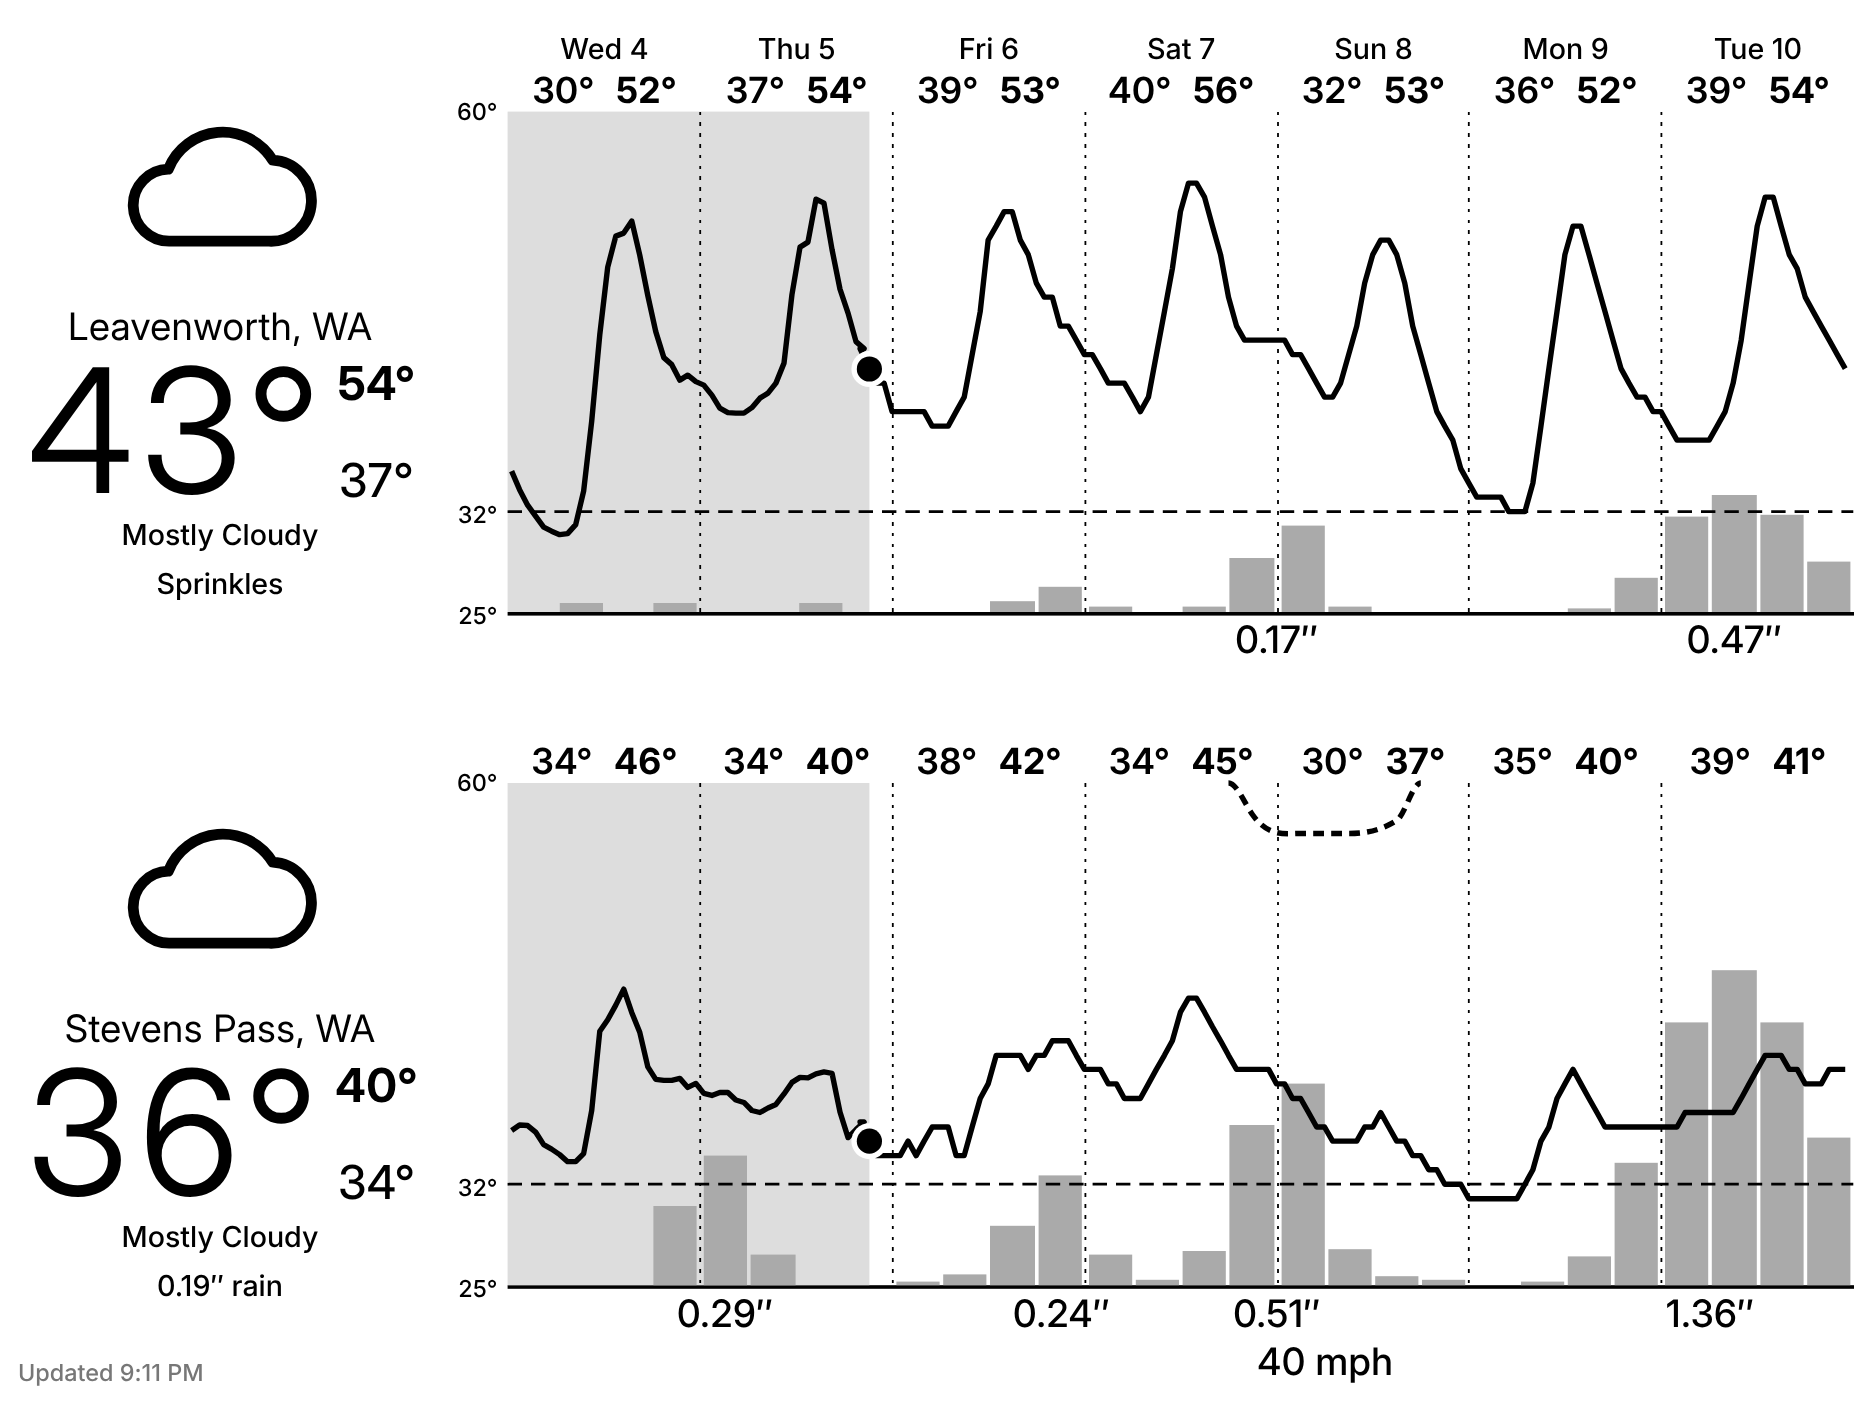
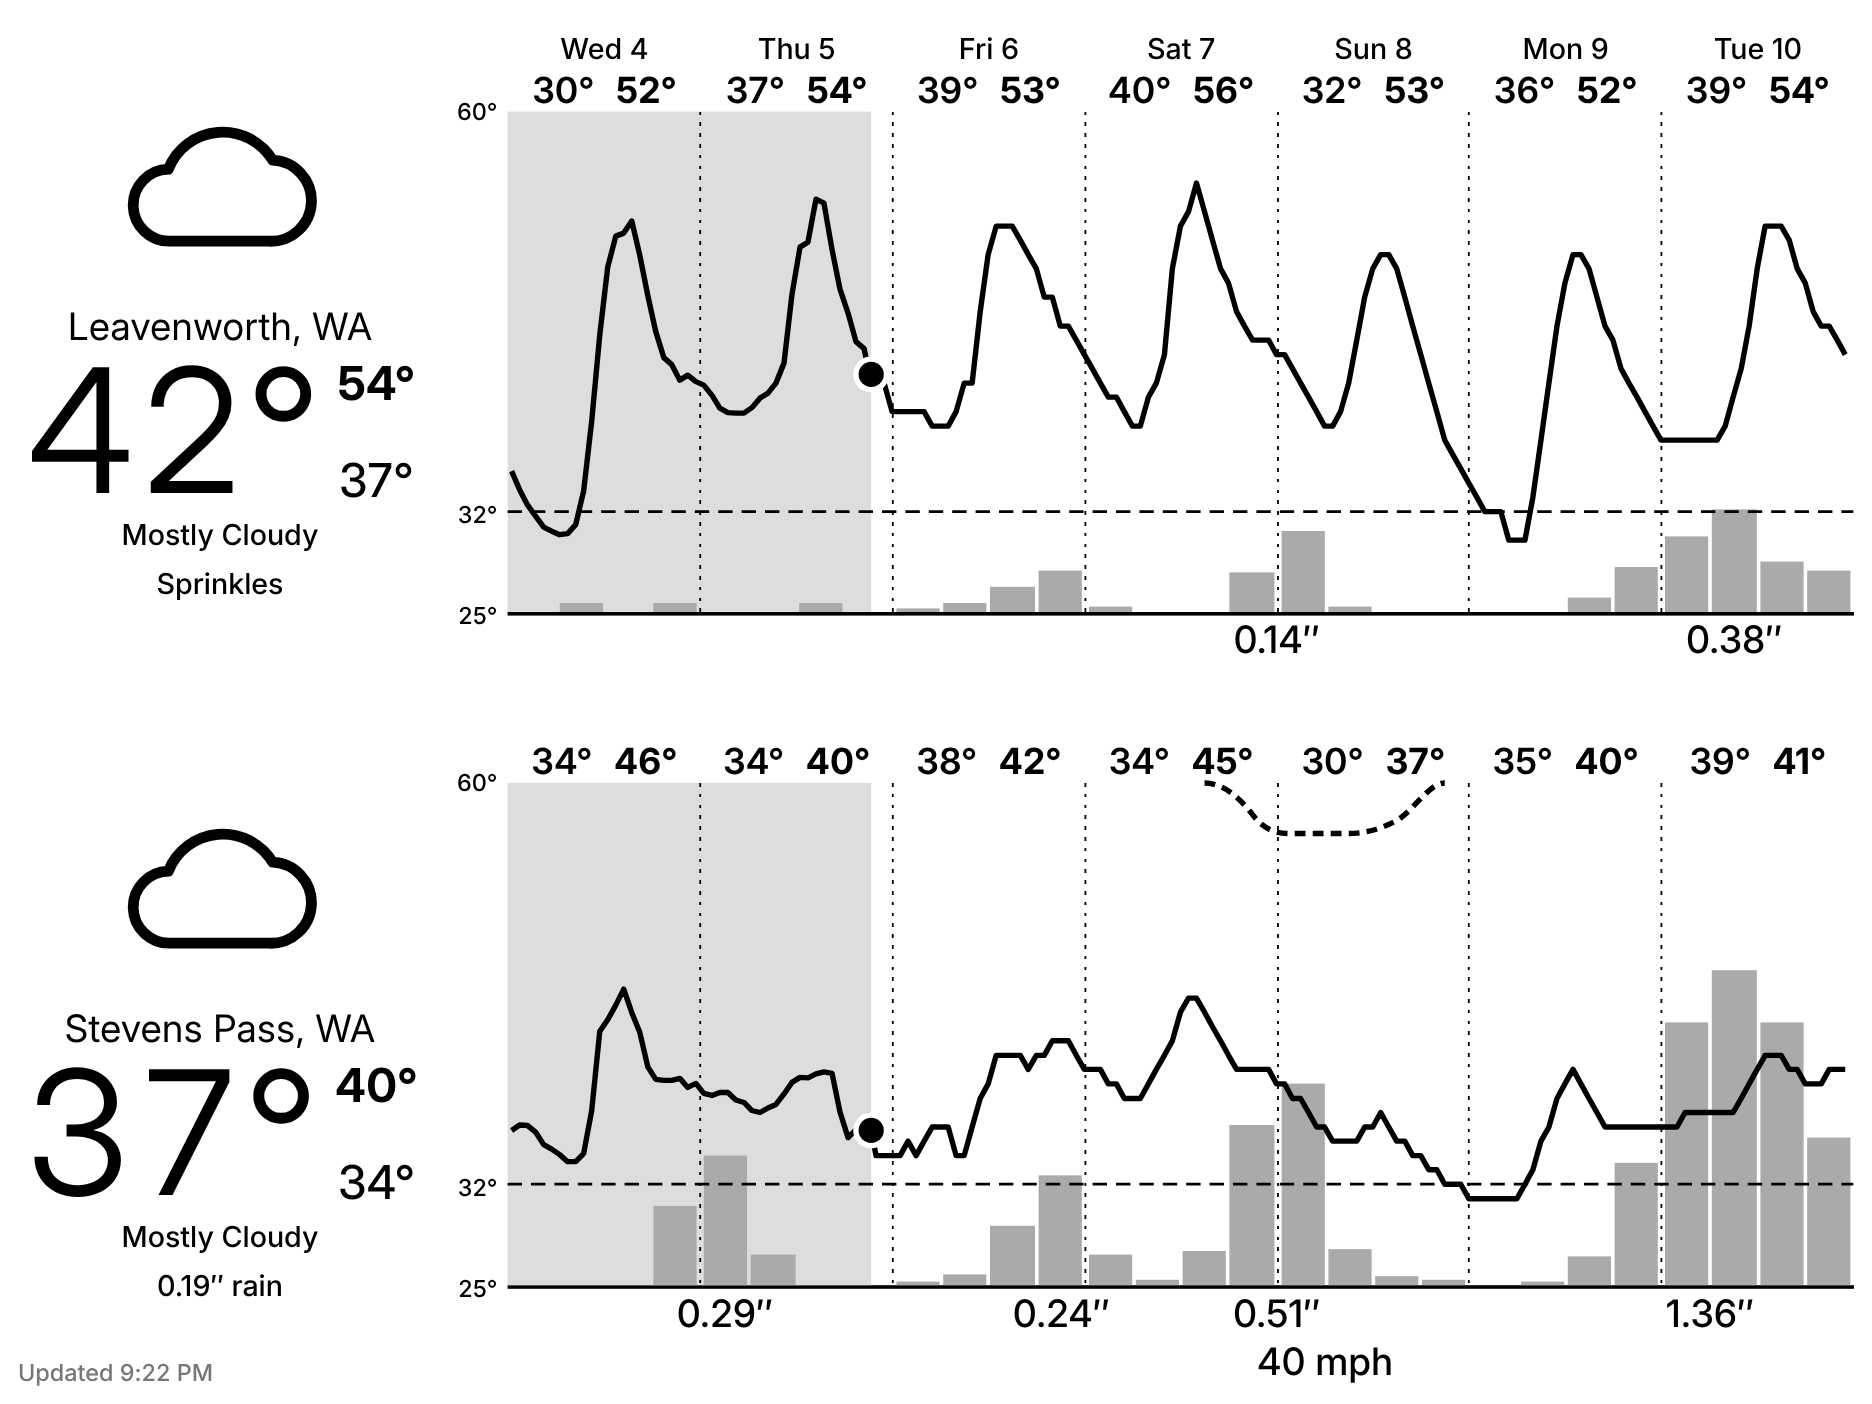
Ease the wind curve in and out over a whole block
Claude-Session: https://claude.ai/code/session_018zBtTfGxqR6ysBZYHYeVbJ

diff --git a/server/forecast/wind.go b/server/forecast/wind.go
@@ -47,19 +47,21 @@ func (c *Chart) fillWind(grid *GridData, days []Day, start, end, now time.Time, 
 		}
 	}
 
-	// Each windy spell: a curve from zero at the spell's start, through each block's gust at the
-	// block's middle, back to zero at its end; and one label with its peak, centered under it.
+	// Each windy spell: a curve that eases in from zero a whole block before the spell's first
+	// block (at the middle of the calm block before it), runs through each block's gust at the
+	// block's middle, and eases back out to zero a block after its last; and one label with its
+	// peak, centered under it. The ends clamp to the chart's edges.
 	c.Gusts = []Storm{}
 	n := float64(len(gusts))
 	for _, r := range runs(len(gusts), func(k int) bool { return gusts[k] >= windyGustMph }) {
-		xs, ys := []float64{float64(r[0]) / n * 1000}, []float64{0}
+		xs, ys := []float64{math.Max(0, (float64(r[0])-0.5)/n*1000)}, []float64{0}
 		peak := 0.0
 		for k := r[0]; k <= r[1]; k++ {
 			xs = append(xs, (float64(k)+0.5)/n*1000)
 			ys = append(ys, math.Min(100, 100*gusts[k]/fullGustMph))
 			peak = math.Max(peak, gusts[k])
 		}
-		xs, ys = append(xs, float64(r[1]+1)/n*1000), append(ys, 0)
+		xs, ys = append(xs, math.Min(1000, (float64(r[1])+1.5)/n*1000)), append(ys, 0)
 		c.WindLine += smoothPath(xs, ys)
 
 		label := fmt.Sprintf("%.0f mph", peak)

diff --git a/server/forecast/glance_test.go b/server/forecast/glance_test.go
@@ -770,9 +770,10 @@ func TestWind(t *testing.T) {
 	days := make([]Day, 2)
 	c := buildChart(&grid, days, loc, now, "us", "auto", nil, seen, 0)
 	// Block 0 (midnight-6): station peaks 20, 26, 10 -> median 20, calm. Block 1: 31, 45 -> 38.
-	// Two windy spells (blocks 1 and 5), each a curve from zero, through the gust, back to zero.
-	if c.WindLine != "M125,0C145.8,0 166.7,63.3 187.5,63.3C208.3,63.3 229.2,0 250,0"+
-		"M625,0C645.8,0 666.7,66.3 687.5,66.3C708.3,66.3 729.2,0 750,0" ||
+	// Two windy spells (blocks 1 and 5), each a curve easing in from zero at the middle of the
+	// block before, through the gust, and back out to zero at the middle of the block after.
+	if c.WindLine != "M62.5,0C104.2,0 145.8,63.3 187.5,63.3C229.2,63.3 270.8,0 312.5,0"+
+		"M562.5,0C604.2,0 645.8,66.3 687.5,66.3C729.2,66.3 770.8,0 812.5,0" ||
 		days[0].Gust != 38 || days[1].Gust != 40 || len(c.Gusts) != 2 || c.Gusts[1].Labels[0] != "40 mph" {
 		t.Errorf("wind = %s, gusts %d / %d, labels %+v", c.WindLine, days[0].Gust, days[1].Gust, c.Gusts)
 	}
